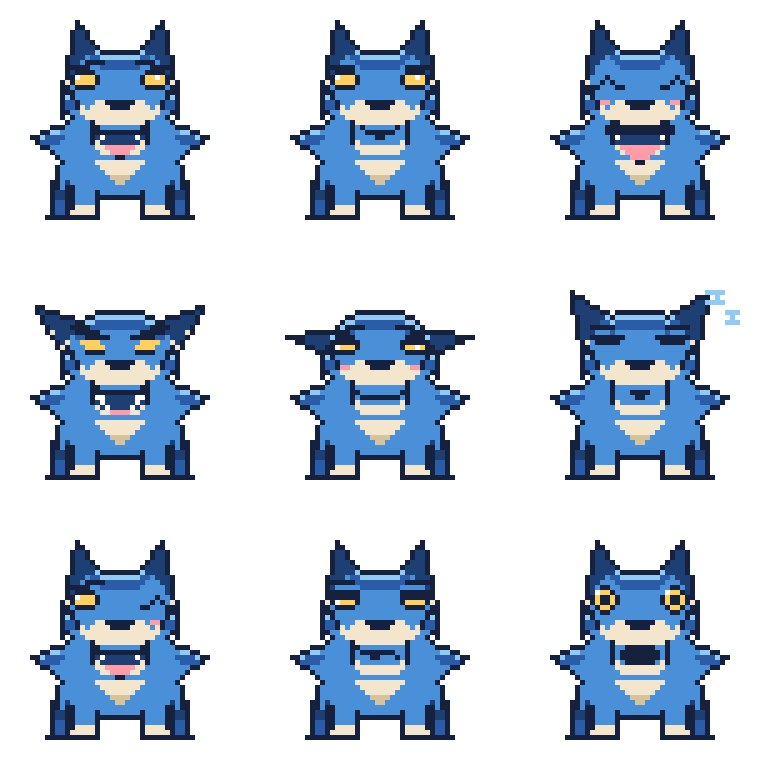
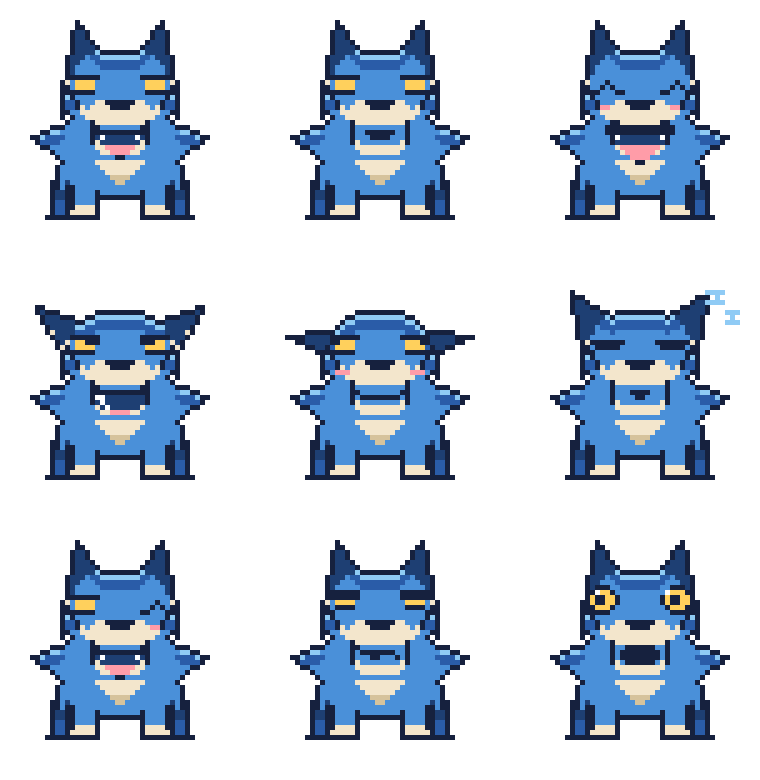
Adopt deadpan eyes and rebuild all nine expressions on them
The deadpan eye was the pick, so it becomes the character's resting
face and the baseline every expression is built from.

- character/pixel/sprite_wolf_front.txt is now the closed-mouth
  deadpan; the bark moves to its own file
- the lid bar is kept in anger, sadness, smugness and the wink, with
  only its tilt changing, so the character stays recognisable;
  surprise is the one expression that drops it
- character/pixel/sprite_wolf_face.txt: recrop
- character/README.md: lid behaviour per expression

Claude-Session: https://claude.ai/code/session_01JypWXVz5y8Khvz5uprJUKz

diff --git a/character/README.md b/character/README.md
@@ -77,17 +77,17 @@
 `pixel/sprite_wolf_face.txt` はこの正面から顔だけを切り出した 32×32 で、
 アイコンにするならこちらのほうが横顔より目を引きます。
 
-## 表情パターン（9種）
+## 表情パターン（9種・ジト目ベース）
 
 ![表情一覧](pixel/expressions_x5.png)
 
-体つきは検討案のうち **`chibi`（頭を大きく・脚を短く）** を採用しています。
-体と毛は全パターン共通で、**顔のパーツと耳の角度だけ**差し替えています。
+目は **ジト目（まぶたの帯＋金の細い線）を基準** にしています。
+既定の顔（`sprite_wolf_front.txt`）は口を閉じたジト目です。
 
 | ファイル | 表情 | フィードでの使いどころ |
 | --- | --- | --- |
-| `pixel/sprite_wolf_front.txt` | 吠える（既定） | 投稿した瞬間 |
-| `pixel/sprite_wolf_front_calm.txt` | 通常・口を閉じる | 待機中 |
+| `pixel/sprite_wolf_front.txt` | ジト目・口を閉じる（既定） | 待機中 |
+| `pixel/sprite_wolf_front_bark.txt` | ジト目のまま吠える | 投稿した瞬間 |
 | `pixel/sprite_wolf_front_happy.txt` | 喜び | 投稿成功 |
 | `pixel/sprite_wolf_front_angry.txt` | 怒り | エラー・失敗 |
 | `pixel/sprite_wolf_front_sad.txt` | しょんぼり | 投稿スキップ |
@@ -96,121 +96,30 @@
 | `pixel/sprite_wolf_front_smug.txt` | どや顔 | 連続投稿の達成 |
 | `pixel/sprite_wolf_front_surprise.txt` | 驚き | 想定外の入力 |
 
-### 耳の角度が感情を決める
+### まぶたの帯を全表情で保つ
 
-表情を分けるのに効いたのは、目の形よりも **耳の角度** でした。
-顔のパーツを同じにしたまま耳だけ変えても、ちゃんと別の感情に見えます。
+ジト目を基準にすると、**まぶたの帯をどの表情でも残すか**が分かれ目になります。
+残したほうが同じキャラに見えるので、怒り・しょんぼり・どや顔・ウインクでは帯を保ち、
+**傾きだけ変えて**感情を出しています。
 
-耳は手で描き直さず、**立てた耳のベクトルを回して**作っています。
-体つきを変えても耳が破綻しないのはこのためです（手で置くと頭の大きさが変わるたびに浮きます）。
+| 表情 | まぶたの帯 |
+| --- | --- |
+| 通常・吠える | 水平 |
+| 怒り | 内側（鼻側）が下がる |
+| しょんぼり | 外側が下がる |
+| どや顔 | 2px に厚くして目を細める |
+| 驚き | **帯を外す**（これだけ例外。帯を残すと驚きに見えない） |
+| 喜び・寝ている | 目を閉じるので帯なし |
+
+驚きだけ帯を外しているのは、ジト目のままだと「見開いた」感じが出ないからです。
+逆に言うと、帯を外すだけで驚きに見えます。
 
 | 耳 | 回転 | 使う表情 |
 | --- | --- | --- |
-| 立てる | 0° | 吠える・通常・喜び・ウインク・どや顔・驚き |
+| 立てる | 0° | 通常・吠える・喜び・ウインク・どや顔・驚き |
 | 少し寝かせる | -25° | 寝ている |
 | 後ろに寝かせる | -45° | 怒り |
 | 垂らす | -72° | しょんぼり |
-
-| 表情 | 目 | 口 |
-| --- | --- | --- |
-| 吠える | 丸い金＋光 | 開けて口角を上げる |
-| 通常 | 丸い金＋光 | 閉じて口角を上げる |
-| 喜び | `^ ^` | 大きく開けて舌を出す・ほお染め |
-| 怒り | 細い吊り目 | 牙をむく |
-| しょんぼり | 上まぶたを下げる | 口角を下げる・ほお染め |
-| 寝ている | 閉じる | 小さく閉じる |
-| ウインク | 片目だけ `^` | 開けて口角を上げる |
-| どや顔 | 半目 | 片側だけ上がる |
-| 驚き | まん丸・瞳を小さく | 縦に丸く開ける |
-
-## 派生
-
-| ファイル | 用途 | サイズ |
-| --- | --- | --- |
-| `pixel/sprite_wolf_quad.txt` | 本命の立ち姿（横） | 48×40 |
-| `pixel/sprite_wolf_front.txt` | 正面・吠えるポーズ | 48×48 |
-| `pixel/sprite_wolf_face.txt` | 顔アップ（アイコン向き） | 32×32 |
-| `pixel/sprite_wolf_head.txt` | 顔アップ（投稿アカウントのアイコン用） | 24×24 |
-| `pixel/sprite_wolf_chibi.txt` | デフォルメ版。同じ狼の幼い姿という位置づけ | 32×32 |
-
-![アイコン](pixel/sprite_wolf_head_x8.png) ![デフォルメ](pixel/sprite_wolf_chibi_x8.png)
-
-## カラーパレット
-
-`pixel/palette.json` が定義ファイル。グリッドの1文字がそのまま1色です。
-
-| 文字 | 用途 | HEX |
-| --- | --- | --- |
-| `.` | 透過 | — |
-| `#` | 輪郭（黒ではなく濃紺） | `#16213E` |
-| `N` | 奥の脚・耳の内側 | `#1E3F73` |
-| `D` | 背中・影の青 | `#2A5CA8` |
-| `B` | ベースの青 | `#4A90D9` |
-| `L` | 上からの光 | `#8FCBF5` |
-| `C` | 腹・のど・脚先のクリーム | `#F3E6CC` |
-| `S` | クリームの影 | `#D6C39C` |
-| `W` | 白（牙） | `#FFFFFF` |
-| `Y` | 金（目だけ） | `#FFD05C` |
-| `P` | 差し色の桃（デフォルメ版の耳の内側） | `#FF9CA8` |
-
-明暗は上から下へ **`L` → `D` → `B` → `C` → `S`**。背が濃く腹が明るい、という動物の基本に合わせています。
-
-## 名前の候補
-
-| 候補 | 由来 |
-| --- | --- |
-| ルリオオカミ／ルリガミ | 瑠璃。深い青。 |
-| ナギロウ | 凪 + 狼。静かな海の青。 |
-| アイロウ | 藍 + 狼。 |
-| ソウガ | 蒼牙。 |
-| ハクロウ | 白狼。青に白の差し色という見た目から。 |
-
-デジモン風に「〜モン」を付けるなら **ルリモン／ナギモン／ソウガモン** あたり。
-
-## 描き方・書き出し方
-
-原本は `pixel/*.txt`。1文字=1ピクセルなので、テキストエディタで直接描き換えられます。
-色を変えたいときは `palette.json` の HEX を書き換えるだけで全スプライトに反映されます。
-
-```bash
-# 全グリッドを等倍と x8 で PNG に書き出す
-python3 character/pixel/render.py
-
-# 1枚だけ、倍率を指定して
-python3 character/pixel/render.py character/pixel/sprite_wolf_quad.txt -s 16
-```
-
-`render.py` は標準ライブラリだけで動きます（Pillow 不要）。
-
-## 次にやること
-
-1. 名前を決める
-2. ポーズ差分（伏せ／遠吠え／走り）
-3. 表情や状態の差分（投稿成功／エラー／キュー空）
-4. 走りの2〜4コマアニメーション
-
-## 目の検討案（6種）
-
-![目6案](drafts/pixel/eyes_x9.png)
-
-目以外は全部同じにして、目だけ変えた比較用です（顔を切り出して拡大しています）。
-`drafts/pixel/eye_*.txt`。
-
-| 案 | 目 | 印象 |
-| --- | --- | --- |
-| `round` | 現行。金ベタ＋白の光1px | 素直、扱いやすい |
-| `sharp` | 細く吊って内側の角を落とす | 精悍、鋭い |
-| `big` | 一回り大きい丸 | かわいい、幼い |
-| `soft` | 外側が下がるたれ目 | やさしい、穏やか |
-| `cat` | 縦に細い瞳 | 野性的、獣らしい |
-| `sclera` | 白目あり＋金の虹彩＋黒い瞳 | キャラクター寄り、視線が出る |
-
-目は **左目だけ定義して自動で反転** させています（`eye_pair()`）。
-手で左右を置くと1pxずれて寄り目になるので、必ず片側だけ書きます。
-
-瞳を入れる案も試しましたが、虹彩の中に3px幅の黒を置くと金が輪っかになって
-ドーナツのように見えました。瞳を入れるなら `cat` の縦1〜2pxか、`sclera` のように
-白目を足して虹彩を小さくするほうが成立します。
 
 ## 目の検討案・第2案：系統を変える（6種）
 
